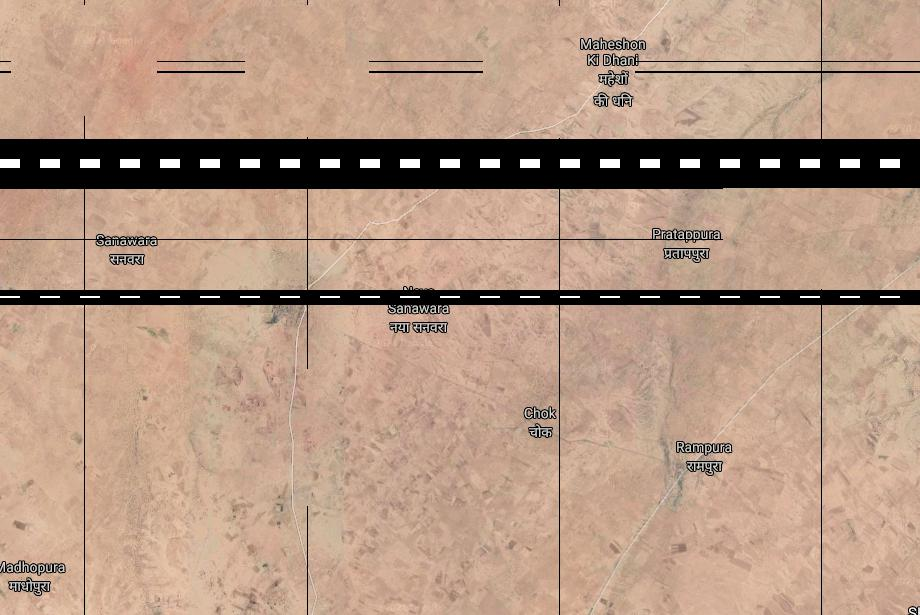
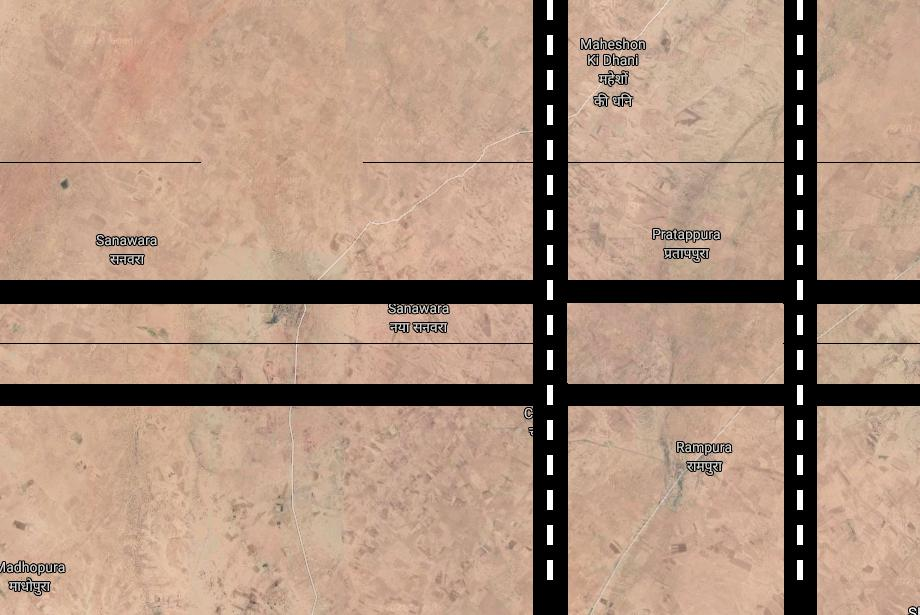
Fixed the bug about thin vertical roads

Changed region(s): [[0.0, 0.0, 1.0, 1.0], [0.3957, 0.0927, 0.5174, 0.1236], [0.1826, 0.0927, 0.2739, 0.1236]]

diff --git a/Infer.py b/Infer.py
@@ -21,8 +21,15 @@ class Infer:
         self.TrafficMap = np.zeros(IMGDIM)
         self.ConstructTraffic()
         self.ReduceNoise()
-        self.RLForTraffic(np.std(self.TrafficMap)*1.5)
-        
+        self.BuffM = np.copy(self.TrafficMap)
+        self.BuffH = np.copy(self.TrafficMapH)
+        self.BuffV = np.copy(self.TrafficMapV)
+        self.RLForTraffic(np.std(self.TrafficMap))
+        self.RLForTraffic2(np.std(self.BuffM))
+        self.TrafficMap += self.BuffM
+        self.TrafficMapH+=self.BuffH
+        self.TrafficMapV+=self.BuffV
+
 
     def ConstructTraffic(self):
 
@@ -53,6 +60,51 @@ class Infer:
             self.TrafficMapV[int(Rect.position[0]-(Rect.dim[0]/2)):int(Rect.position[0]+(Rect.dim[0]/2)),int(Rect.position[1]-(Rect.dim[1]/2)):int(Rect.position[1]+(Rect.dim[1]/2))] = 0
         self.TrafficMap = self.TrafficMapH+self.TrafficMapV
 
+    def ReduceNoise2(self):
+        for Rect in self.RectL:
+            self.BuffH[int(Rect.position[0]-(Rect.dim[0]/2)):int(Rect.position[0]+(Rect.dim[0]/2)),int(Rect.position[1]-(Rect.dim[1]/2)):int(Rect.position[1]+(Rect.dim[1]/2))] = 0
+            self.BuffV[int(Rect.position[0]-(Rect.dim[0]/2)):int(Rect.position[0]+(Rect.dim[0]/2)),int(Rect.position[1]-(Rect.dim[1]/2)):int(Rect.position[1]+(Rect.dim[1]/2))] = 0
+        self.BuffM = self.BuffH+self.BuffV
+
+    def RLForTraffic2(self, threshold):
+        for i in range(self.IMGDIM[1]):
+            if np.mean(self.BuffM[:,i]) < threshold:
+                t = 0
+                for k in self.RectL:
+                    traff = k.traffic + 10
+                    xk, yk = k.position
+                    if i < yk-(k.dim[1]/2):
+                        self.BuffH[:,i]-=(traff/abs(i-yk))*np.ones(self.IMGDIM[0])
+                        g = min(self.IMGDIM[1]-1,int(i+abs(i-yk)))
+                        self.BuffH[:,g]+=(traff/abs(i-yk))*np.ones(self.IMGDIM[0])
+                        t+=1
+                    if i > yk + (k.dim[1]/2):
+                        self.BuffH[:,i]-=(traff/abs(i-yk))*np.ones(self.IMGDIM[0])
+                        g = max(0,int(i-abs(i-yk)))
+                        self.BuffH[:,g]+=(traff/abs(i-yk))*np.ones(self.IMGDIM[0])
+                        t+=1
+                if t>0:
+                    self.ReduceNoise2()
+        for i in range(self.IMGDIM[0]):
+            if np.mean(self.BuffM[i,:]) < threshold:
+                t = 0
+                for k in self.RectL:
+                    traff = k.traffic + 10
+                    xk, yk = k.position
+                    if i < xk-(k.dim[0]/2):
+                        self.BuffV[i,:]-=(traff/abs(i-xk))*np.ones(self.IMGDIM[1])
+                        g = min(self.IMGDIM[0]-1,int(i+abs(i-xk)))
+                        self.BuffV[g,:]+=(traff/abs(i-xk))*np.ones(self.IMGDIM[1])
+                        t+=1
+                    if i > xk + (k.dim[0]/2):
+                        self.BuffV[i,:]-=(traff/abs(i-xk))*np.ones(self.IMGDIM[1])
+                        g = max(0,int(i-abs(i-xk)))
+                        self.BuffV[g,:]+=(traff/abs(i-xk))*np.ones(self.IMGDIM[1])
+                        t+=1
+                if t > 0:
+                    self.ReduceNoise2()
+
+
     def RLForTraffic(self, threshold):
         for i in range(self.IMGDIM[0]):
             if np.mean(self.TrafficMap[i,:]) < threshold:
@@ -79,14 +131,14 @@ class Infer:
                     traff = k.traffic + 10
                     xk, yk = k.position
                     if i < yk-(k.dim[1]/2):
-                        self.TrafficMapV[:,i]-=(traff/abs(i-yk))*np.ones(self.IMGDIM[0])
+                        self.TrafficMapH[:,i]-=(traff/abs(i-yk))*np.ones(self.IMGDIM[0])
                         g = min(self.IMGDIM[1]-1,int(i+abs(i-yk)))
-                        self.TrafficMapV[:,g]+=(traff/abs(i-yk))*np.ones(self.IMGDIM[0])
+                        self.TrafficMapH[:,g]+=(traff/abs(i-yk))*np.ones(self.IMGDIM[0])
                         t+=1
                     if i > yk + (k.dim[1]/2):
-                        self.TrafficMapV[:,i]-=(traff/abs(i-yk))*np.ones(self.IMGDIM[0])
+                        self.TrafficMapH[:,i]-=(traff/abs(i-yk))*np.ones(self.IMGDIM[0])
                         g = max(0,int(i-abs(i-yk)))
-                        self.TrafficMapV[:,g]+=(traff/abs(i-yk))*np.ones(self.IMGDIM[0])
+                        self.TrafficMapH[:,g]+=(traff/abs(i-yk))*np.ones(self.IMGDIM[0])
                         t+=1
                 if t>0:
                     self.ReduceNoise()

diff --git a/main.py b/main.py
@@ -403,11 +403,11 @@ class LabelTool():
         # print(len(WH))
         # print(len(WV))
         for w in WH:
-            for i in range(0,X.shape[0],40):
+            for i in range(0,X.shape[0],35):
                 if np.mean(X[i,w[0],0:3]) < 0.1 and (i+20)<X.shape[0] and np.mean(X[i+20,w[0],0:3]) < 0.1:
                     X[i:(i+20),w[0]:w[1],0:3] = 1.00
         for w in WV:
-            for i in range(0,X.shape[1],40):
+            for i in range(0,X.shape[1],35):
                 if np.mean(X[w[0],i,0:3]) < 0.1 and (i+20)<X.shape[1] and np.mean(X[w[0],i+20,0:3]) < 0.1:
                     X[w[0]:w[1],i:(i+20),0:3] = 1.00
 
@@ -445,10 +445,10 @@ class LabelTool():
         TV = Res.TrafficMapV
         self.saveImage()
         self.imageList = []
-        for i in range(5,11):
+        for i in range(1,11):
             y = 1.00+(i/10)
             z = 'results/RoadPred'+str(i-4)
-            self.Visualise(TH,TV,y,z)
+            self.Visualise(TV,TH,y,z)
         
 
         self.imageList = sorted(self.imageList)
